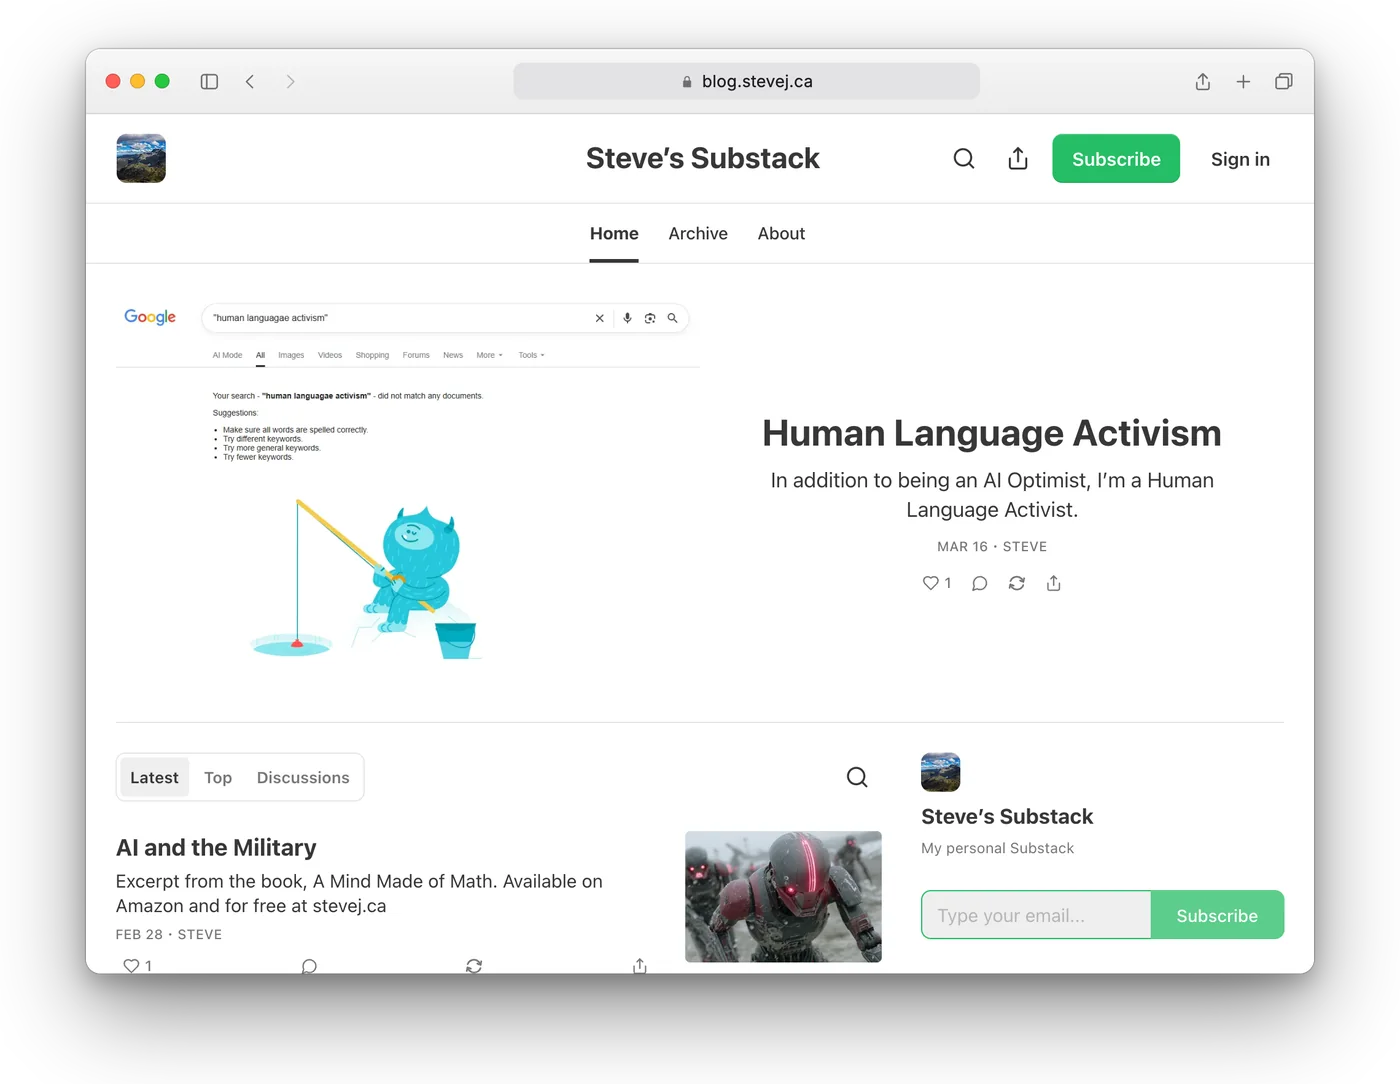
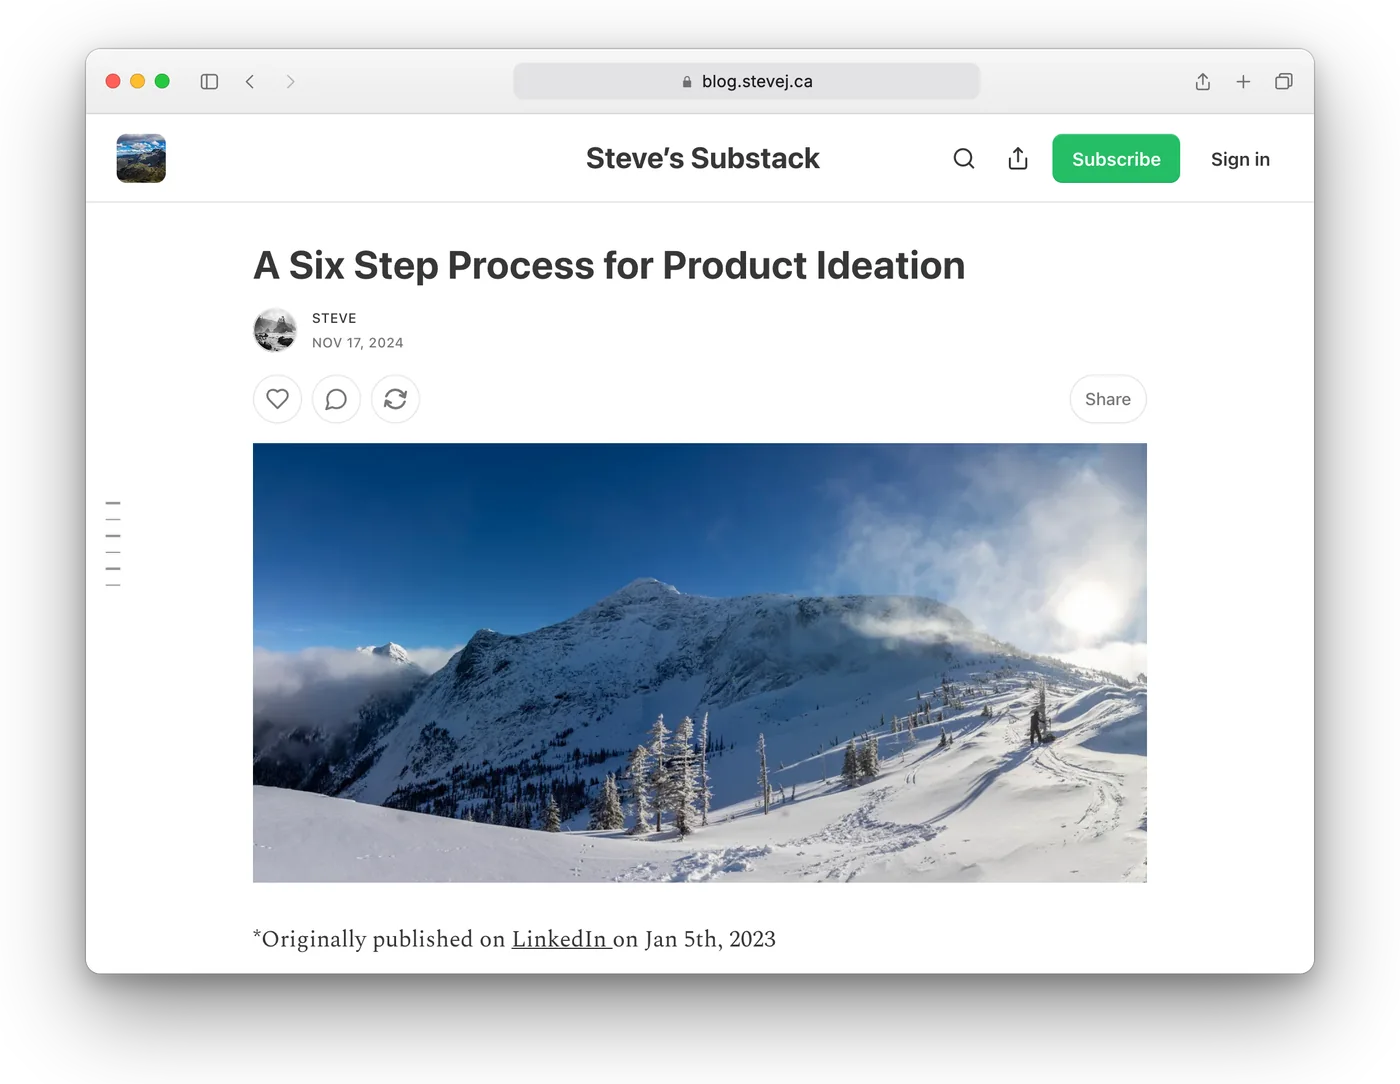
Advising: blog screenshot now shows the product ideation post, and links to it

Changed region(s): [[0.0921, 0.2131, 0.9214, 0.9133], [0.0921, 0.7002, 0.1229, 0.7306], [0.0921, 0.274, 0.1229, 0.3044]]

diff --git a/index.html b/index.html
@@ -403,8 +403,8 @@
             <a class="btn btn-primary" href="https://blog.stevej.ca/" rel="noopener">Read the blog&nbsp;↗</a>
           </div>
         </div>
-        <a class="blog-shot" href="https://blog.stevej.ca/" rel="noopener" aria-label="Read the blog at blog.stevej.ca">
-          <img src="img/blog-browser.webp" width="1400" height="1084" alt="Steve’s blog at blog.stevej.ca open in a Mac browser, showing recent posts on AI" loading="lazy">
+        <a class="blog-shot" href="https://blog.stevej.ca/p/a-six-step-process-for-product-ideation" rel="noopener" aria-label="Read “A Six Step Process for Product Ideation” on the blog">
+          <img src="img/blog-browser.webp?v=202610022349" width="1400" height="1084" alt="The blog post “A Six Step Process for Product Ideation” open in a Mac browser" loading="lazy">
         </a>
       </div>
     </section>
